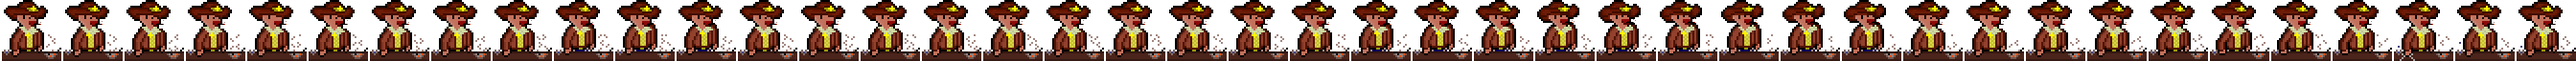
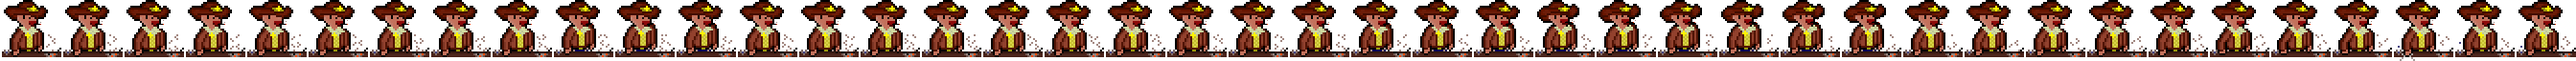
ajout du système de scores (la partie se termine si un des deux joueurs a eu 2 victoires) + ajout des panneaux scores + modification du shérif + table complétée par un rectangle marron

Changed region(s): [[0.0, 0.9375, 1.0, 1.0]]

diff --git a/vue.py b/vue.py
@@ -67,8 +67,16 @@ class Interface:
         self.ennemi = ennemi
 
         self.background = scale(pygame.image.load(os.path.join("data","graphismes","saloon","saloon_clone.png")),(1280,720))
-
         self.tableAnimation = Animation(self.fenetre, os.path.join("table_animation.png"),0,32,2,True,428,17,None,3,True,6,640)
+
+        self.scoreIA=0
+        self.scoreJoueur=0
+
+        self.dialogueIA=0
+
+        self.panneauScore= scale(pygame.image.load(os.path.join("data","graphismes","scores","panneau_score.png")),(177,69))
+        self.panneauIA = scale(pygame.image.load(os.path.join("data","graphismes","scores","IA0.png")),(90,90))
+        self.panneauJoueur= scale(pygame.image.load(os.path.join("data","graphismes","scores","Joueur0.png")),(90,90))
 
     def Reinitialiser(self):
         #On réinitialise la grille de jeu après 1sec
@@ -170,6 +178,11 @@ class Interface:
         self.fenetre.blit(self.background,(0,0))
         #self.fenetre.fill([255,255,255])
         self.fenetre.blit( self.grille.sprites["back"], (self.coordGrilleBack[0], self.coordGrilleBack[1]+self.yTremble) )
+        pygame.draw.rect(self.fenetre,(75,36,27),(0,680,1280,720))
+
+        self.fenetre.blit(self.panneauScore,(550,0))
+        self.fenetre.blit(self.panneauJoueur,(470,0))
+        self.fenetre.blit(self.panneauIA,(710,0))
 
         if(self.lacher):
             rectCol = None
@@ -195,8 +208,21 @@ class Interface:
                 self.lacher = False
                 gagnant = self.moteurJeu.Gagnant(jeton)
                 if(gagnant != 0):
+                    if (gagnant==1):
+                        self.scoreJoueur+=1
+                        self.afficheTexte
+                        self.dialogueIA=2
+                        print("Vous gagnez un point !")
+                        print("Score : "+str(self.scoreJoueur)+" - "+str(self.scoreIA))
+                        self.panneauJoueur = scale(pygame.image.load(os.path.join("data","graphismes","scores","Joueur"+str(self.scoreJoueur)+".png")),(90,90))
+                    elif (gagnant==2):
+                        self.scoreIA+=1
+                        self.dialogueIA=1
+                        print("L'IA gagne un point !")
+                        print("Score : "+str(self.scoreJoueur)+" - "+str(self.scoreIA))
+                        self.panneauIA = scale(pygame.image.load(os.path.join("data","graphismes","scores","IA"+str(self.scoreIA)+".png")),(90,90))
                     self.Reinitialiser()
-                    print("Gagnant : Joueur ",gagnant)
+                    self.reinitialise=False
                 self.tremble = 4
 
         for iJeton in self.jetonsPlaces:

diff --git a/main.py b/main.py
@@ -159,7 +159,7 @@ class Main:
                     self.clicked=False
                     print("DECOMPTE SE VIDE ENCLANCHE")
 
-            if (self.interface.reinitialise):
+            if ((self.interface.scoreIA==2) or (self.interface.scoreJoueur==2)):
                 Main().saloonLoop()
 
             if (self.compteurManaVide==0 and self.seVide==True) or (self.interface.reinitialise==True):
@@ -184,8 +184,7 @@ class Main:
 
             #Gestion dialogues
             if(self.interface.dialogueFini==False):
-                self.interface.afficheTexte(2,self.getEnnemi(self.interface.ennemi).dialogue[0])
-                #self.interface.afficheTexte(1,"Moi j'suis l'Sheriff !")
+                self.interface.afficheTexte(2,self.getEnnemi(self.interface.ennemi).dialogue[self.interface.dialogueIA])
             #------------------Fin gestion dialogues
             
             pygame.display.update()
